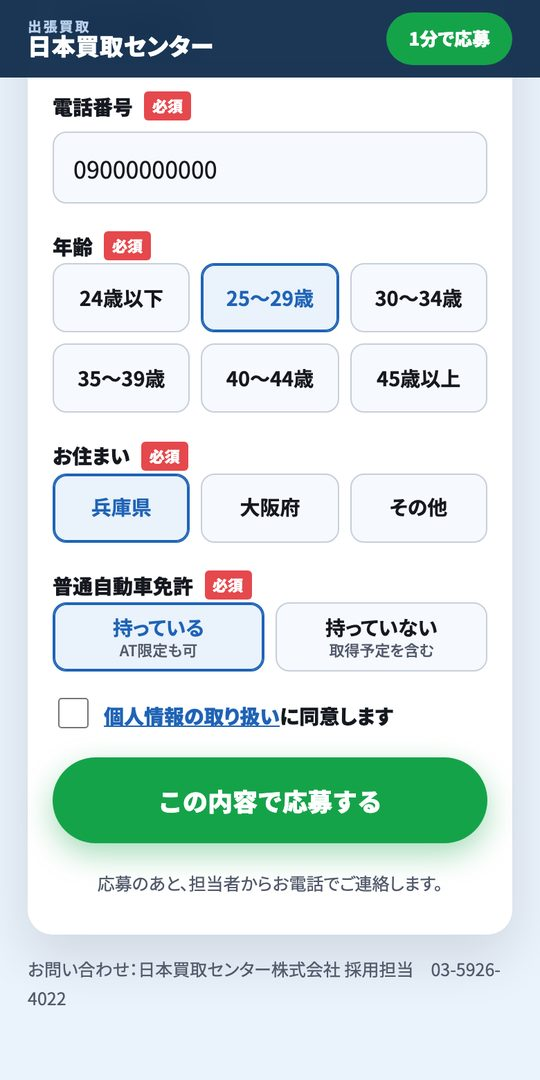
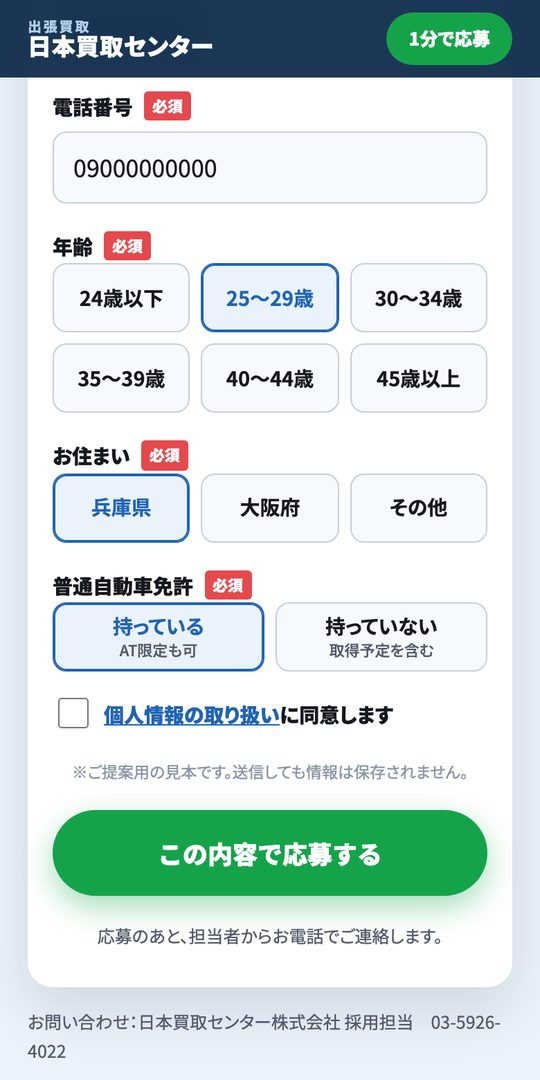
日本買取センター様の提案：給与の書き方を募集要項どおりに直し、想定の数字を目標と慎重ケースに分けた
Codexレビューを反映。月給30万〜100万円は固定給の幅でインセンティブは別、採用単価の幅の計算を修正、見本フォームはJSが動くまで送信不可に、電話番号チェックを強化。

diff --git a/nkc-saiyo-board-c6d333/index.html b/nkc-saiyo-board-c6d333/index.html
@@ -254,10 +254,10 @@ a.url{text-decoration:none;color:var(--blue)}
     <h1>説明会を使わずに「ふつうの求人広告」で募集した場合のイメージ</h1>
     <p class="lead">前回は「説明会の日時」に合わせて集める形でした。ふつうの求人広告は<b>いつでも応募できるので、配信を止めずに続けられ、続けるほど応募1件あたりの費用が下がりやすい</b>のが特長です。買取・反響営業で長く広告を出している他社8社を調べ、その勝ちパターンをもとにバナー3案とLPを作りました。</p>
     <div class="kpis">
-      <div class="kpi"><span>想定の応募単価（CPA）</span><b class="num">¥6,000〜1万</b><small>応募フォーム1件あたり（推定）</small></div>
+      <div class="kpi"><span>応募単価（CPA）の目標</span><b class="num">¥6,000〜1万</b><small>応募1件あたり。慎重に見ると ¥1.2〜1.8万</small></div>
       <div class="kpi"><span>想定の面接単価</span><b class="num">¥1.2〜2.5万</b><small>応募の4〜5割が面接に来る想定</small></div>
-      <div class="kpi"><span>想定の採用単価</span><b class="num">約¥9万</b><small>面接の約2割が採用の想定（幅 約5〜17万円）</small></div>
-      <div class="kpi dark"><span>おすすめの始め方</span><b>月30万円×2か月</b><small>月に応募 約30〜50件・採用 約3人の想定</small></div>
+      <div class="kpi"><span>想定の採用単価</span><b class="num">約¥9万</b><small>入社1人あたりの広告費。面接の約2割が入社の想定（幅 約6〜13万円）</small></div>
+      <div class="kpi dark"><span>おすすめの始め方</span><b>月30万円×2か月</b><small>月に応募 約30〜50件・入社 約3人の想定（目標の場合）</small></div>
     </div>
     <div class="status">
       <div class="st ok"><span class="ic"><svg viewBox="0 0 24 24"><path d="M5 12.5l4.5 4.5L19 7"/></svg></span><div><b>他社の求人広告 8社</b><small>バナー・LP・給与・続き方・想定CPA（01）</small></div></div>
@@ -273,7 +273,7 @@ a.url{text-decoration:none;color:var(--blue)}
   <p class="flabel"><b>01</b>　他社の求人広告（説明会ではなく、ふつうに募集しているもの）</p>
   <div class="panel">
     <div class="flowhead"><h2>買取・反響営業で広告を出している8社</h2><span class="hint">画像はタップで大きく開きます</span></div>
-    <p class="hint" style="margin:4px 0 0">Instagram・Facebookに出ている求人広告を広告調査ツールで集めました（10/25時点）。LPは11/24にスマホで撮影。<b>本数が多く・長く続いている広告ほど、応募が取れている（＝勝っている）</b>と考えられます。</p>
+    <p class="hint" style="margin:4px 0 0">Instagram・Facebookに出ている求人広告を広告調査ツールで集めました（10/25時点）。LPは11/24にスマホで撮影。<b>本数が多く・長く続いている広告ほど、応募が取れている（＝勝っている）可能性が高い</b>と考えられます。</p>
     <div class="comps">
 
       <div class="comp"><div class="ch"><span class="n">1</span><div><h3>アールイコール</h3><small>出張買取スタッフ</small></div><span class="pill ok">1年4か月 続いている</span></div>
@@ -351,7 +351,7 @@ a.url{text-decoration:none;color:var(--blue)}
 
     <div class="callout"><span class="ic"><svg viewBox="0 0 24 24"><path d="M9 18h6M10 21h4M12 3a6 6 0 0 0-3.5 10.9c.6.5 1 1.2 1 2.1h5c0-.9.4-1.6 1-2.1A6 6 0 0 0 12 3z"/></svg></span>
       <div><b>長く続いている広告の共通点（3つ）</b><span>① <b>給与の数字を一番大きく</b>（平均月収・1年目の年収など“実例”の数字）　② <b>「テレアポ・飛び込みなし」を言い切る</b>（完全反響）　③ <b>応募の手間を減らす</b>（DMでOK・短いフォーム・書類選考なし）</span></div></div>
-    <p class="hint" style="margin-top:10px">※想定CPA（応募1件あたりの広告費）は各社が公表していないため、広告の続き方・応募の入口の手間・関西の営業職のMeta求人広告の相場から出した推定です。</p>
+    <p class="hint" style="margin-top:10px">※想定CPA（応募1件あたりの広告費）は各社とも非公開です。広告の続き方・応募の入口の手間などから出した<b>参考の推定</b>で、実際の数字ではありません。</p>
   </div>
 </section>
 
@@ -365,9 +365,9 @@ a.url{text-decoration:none;color:var(--blue)}
       <thead><tr><th></th><th>説明会型（前回）</th><th class="hl">ふつうの求人広告（ご提案）</th></tr></thead>
       <tbody>
         <tr><th>応募できる人</th><td>その日時に来られる人だけ</td><td class="hl">いつでも応募できる</td></tr>
-        <tr><th>配信の期間</th><td>説明会までの数日〜数週間（Metaの学習が終わる前に終了）</td><td class="hl">止めずに続けられる（学習が進むほど安くなる）</td></tr>
+        <tr><th>配信の期間</th><td>説明会までの数日〜数週間（Metaの学習が終わる前に終了）</td><td class="hl">止めずに続けられる（学習が進むと単価が安定しやすい）</td></tr>
         <tr><th>応募の重さ</th><td>半日の予定を空けてもらう</td><td class="hl">1分の応募 → 電話 → 面接</td></tr>
-        <tr><th>1件あたり</th><td>予約1件 約5.7万円<br><span class="hint">配信約4日半・予約2件</span></td><td class="hl"><b>応募1件 約6,000〜1万円</b><br><span class="hint">想定（最初の2〜3週は高め）</span></td></tr>
+        <tr><th>1件あたり</th><td>予約1件 約5.7万円<br><span class="hint">配信約4日半・予約2件</span></td><td class="hl"><b>応募1件 約6,000〜1万円</b><br><span class="hint">目標（最初の2〜3週は高めに出やすい）</span></td></tr>
       </tbody>
     </table></div>
 
@@ -387,19 +387,19 @@ a.url{text-decoration:none;color:var(--blue)}
 
     <h2 style="margin-top:28px">予算ごとの見込み（1か月あたり）</h2>
     <div class="funnel">
-      <div class="fs"><small>応募</small><b class="num">¥6,000〜1万</b><span>1件あたり</span></div><span class="farr">→</span>
+      <div class="fs"><small>応募（目標）</small><b class="num">¥6,000〜1万</b><span>1件あたり</span></div><span class="farr">→</span>
       <div class="fs"><small>面接（応募の4〜5割）</small><b class="num">¥1.2〜2.5万</b><span>1件あたり</span></div><span class="farr">→</span>
-      <div class="fs dk"><small>採用（面接の約2割）</small><b class="num">約¥9万</b><span>1人あたり（幅 約5〜17万円）</span></div>
+      <div class="fs dk"><small>入社（面接の約2割）</small><b class="num">約¥9万</b><span>1人あたり（幅 約6〜13万円）</span></div>
     </div>
     <div class="cmpwrap"><table class="cmp plan">
-      <thead><tr><th>月の広告費</th><th>応募</th><th>面接</th><th>採用</th></tr></thead>
+      <thead><tr><th>月の広告費</th><th>応募</th><th>面接</th><th>入社</th></tr></thead>
       <tbody>
         <tr><th>15万円</th><td>約15〜25件</td><td>約8件</td><td>約1〜2人</td></tr>
         <tr class="rec"><th>30万円 <span class="pill ok">おすすめ</span></th><td><b>約30〜50件</b></td><td><b>約17件</b></td><td><b>約3人</b></td></tr>
         <tr><th>50万円</th><td>約50〜80件</td><td>約28件</td><td>約5〜6人</td></tr>
       </tbody>
     </table></div>
-    <p class="hint" style="margin-top:8px">※面接・採用は中央の値（応募単価8,000円・面接率45%・採用率20%）で計算。最初の2〜3週間はMetaの学習期間のため単価は高めに出て、2か月目から安定してきます。<br>※参考：人材紹介で採用すると、1人あたり想定年収の30〜35%＝<b>約110〜130万円</b>（年収360万円の場合）。</p>
+    <p class="hint" style="margin-top:8px">※面接・入社は中央の値（応募単価8,000円・面接率45%・入社率20%）で計算。面接率・入社率は仮の値で、実際の数字で毎月見直します。<br>※<b>慎重に見た場合</b>（応募単価1.2〜1.8万円）：月30万円で応募 約17〜25件・入社 約1〜2人。最初の2〜3週間はMetaの学習期間のため、単価は高めに出やすいです。<br>※参考：人材紹介で採用すると、1人あたり想定年収の30〜35%＝<b>約110〜130万円</b>（年収360万円の場合）。</p>
   </div>
 </section>
 
@@ -447,7 +447,8 @@ a.url{text-decoration:none;color:var(--blue)}
       <div class="ask"><span class="n">3</span><div><h3>面接の形</h3><p>LPでは「尼崎の事務所 または オンライン」としています。今の募集要項は1次・2次面接なので、回数と、オンラインで行えるかを教えてください。</p></div></div>
       <div class="ask"><span class="n">4</span><div><h3>予算と期間、採用したい人数</h3><p>おすすめは<b>月30万円×2か月</b>（最初の2〜3週は学習期間）。まず月15万円から始めることもできます。</p>
         <p class="q">何人くらい・いつまでに採用したいか、年齢の目安があれば教えてください。</p></div></div>
-      <div class="ask"><span class="n">5</span><div><h3>「月給100万円・想定年収1,200万円」を広告に出してよいか</h3><p>求人広告は実際の条件と違う表示ができません。上限の金額で働いている方がいれば、そのまま出せます。いない場合は「月給30万円〜＋インセンティブ」の表示に絞ります。</p></div></div>
+      <div class="ask"><span class="n">5</span><div><h3>給与の表示と、募集要項に足したい項目</h3><p>求人広告は実際の条件と違う表示ができません。「月給30万〜100万円」の幅がどう決まるか（経験・能力など）と、上限に近い方が実際にいるかを確認させてください。いない場合は「月給30万円〜＋インセンティブ」の表示に絞ります。</p>
+        <p class="q">あわせて、雇用形態（正社員など）・試用期間中の条件・仕事内容や勤務地の変更の範囲・受動喫煙対策を教えてください（求人広告で書くことが求められている項目です）。</p></div></div>
     </div>
   </div>
 </section>

diff --git a/nkc-saiyo-lp-132bf4/index.html b/nkc-saiyo-lp-132bf4/index.html
@@ -83,7 +83,7 @@ p{margin:0}
 .stack{display:grid;grid-template-columns:1fr auto 1fr;align-items:stretch;gap:8px}
 .blk{border-radius:14px;padding:14px 12px;display:grid;gap:2px;align-content:center;text-align:center}
 .blk small{font-size:11.5px;font-weight:900;letter-spacing:.04em}
-.blk b{font-family:var(--num);font-weight:400;font-size:34px;line-height:1.05}
+.blk b{font-family:var(--num);font-weight:400;font-size:30px;line-height:1.05;white-space:nowrap}
 .blk b span{font-family:var(--sans);font-size:13px;font-weight:900;margin-left:1px}
 .blk em{font-style:normal;font-size:11.5px;color:var(--ink2);line-height:1.45}
 .blk.base{background:var(--blue-lt)}.blk.base b{color:var(--blue)}
@@ -258,11 +258,11 @@ dl.req-list dd small{display:block;color:var(--ink2);font-size:12.5px;line-heigh
       <p class="lead">固定の月給に、毎月のインセンティブが上乗せされます。未経験のうちは固定給で安心して覚え、慣れてきたら成果がそのまま収入に返ってきます。</p>
       <div class="income">
         <div class="stack">
-          <div class="blk base"><small>固定の月給</small><b>30<span>万円〜</span></b><em>未経験スタートでも<br>この金額から</em></div>
+          <div class="blk base"><small>月給（固定）</small><b>30<span>万〜</span>100<span>万円</span></b><em>経験・能力により決定<br>未経験でも30万円から</em></div>
           <span class="plus" aria-hidden="true">＋</span>
           <div class="blk inc"><small>インセンティブ</small><b>15<span>%まで</span></b><em>売上利益の最大15%を<br>毎月の月給に加算</em></div>
         </div>
-        <div class="eq"><small>月給</small><b>30<span>万円〜</span>100<span>万円</span></b><i>想定年収 360万円〜1,200万円</i></div>
+        <div class="eq"><small>想定年収</small><b>360<span>万〜</span>1,200<span>万円</span></b></div>
         <p class="note">※月給は固定残業代（40時間分・71,500円〜）を含みます。40時間を超える残業代は別途支給。試用期間3ヶ月。</p>
       </div>
     </div>
@@ -311,7 +311,7 @@ dl.req-list dd small{display:block;color:var(--ink2);font-size:12.5px;line-heigh
       <span class="eyebrow">未経験のあなたへ</span>
       <h2 class="h2">営業がはじめてでも、<br><mark>3つの不安</mark>はいりません。</h2>
       <div class="qa">
-        <div class="qa-item"><p class="q">ノルマや押し売りがキツそう…</p><div class="a"><h3>アポ取りは<em>社内チーム</em>の仕事。押し売りも一切なし。</h3><p>呼ばれたご自宅で、品物を一つずつ丁寧に査定することに集中できます。</p></div></div>
+        <div class="qa-item"><p class="q">押し売りやテレアポがキツそう…</p><div class="a"><h3>アポ取りは<em>社内チーム</em>の仕事。押し売りも一切なし。</h3><p>呼ばれたご自宅で、品物を一つずつ丁寧に査定することに集中できます。</p></div></div>
         <div class="qa-item"><p class="q">査定なんて、やったことがない…</p><div class="a"><h3>約2週間の研修と、<em>先輩への同行</em>で覚えられる。</h3><p>座学のあと先輩に同行して流れを学びます。他業種・営業未経験の方も活躍中です。</p></div></div>
         <div class="qa-item"><p class="q">応募のハードルが高そう…</p><div class="a"><h3>応募は<em>スマホで1分</em>。まずは話を聞くだけでも。</h3><p>入力は5項目だけ。担当者からお電話し、仕事内容や給与のことを詳しくお伝えします。</p></div></div>
       </div>
@@ -352,7 +352,7 @@ dl.req-list dd small{display:block;color:var(--ink2);font-size:12.5px;line-heigh
         <h2 class="h2">1分で応募する</h2>
         <p class="lead">入力は5項目だけです。応募のあと、担当者からお電話でご連絡します。</p>
       </div>
-      <form class="form-card" id="entry" novalidate>
+      <form class="form-card" id="entry" method="post" action="#" novalidate>
         <div class="prog" aria-hidden="true"><span id="prog-t">あと5項目</span><span class="bar"><i id="prog-b"></i></span></div>
         <div class="field">
           <label for="f-name">お名前<span class="req">必須</span></label>
@@ -397,7 +397,8 @@ dl.req-list dd small{display:block;color:var(--ink2);font-size:12.5px;line-heigh
           <label class="agree" for="f-agree"><input type="checkbox" id="f-agree" name="agree"><span><a href="https://nihon-kaitoricenter.com/privacy-policy" target="_blank" rel="noopener">個人情報の取り扱い</a>に同意します</span></label>
           <p class="err" data-for="agree"></p>
         </div>
-        <button class="btn submit" type="submit" id="f-submit">この内容で応募する</button>
+        <p class="btn-sub" style="font-size:11.5px;color:#8a94a6">※ご提案用の見本です。送信しても情報は保存されません。</p>
+        <button class="btn submit" type="submit" id="f-submit" disabled>この内容で応募する</button>
         <p class="form-msg" id="form-msg" role="alert"></p>
         <p class="btn-sub">応募のあと、担当者からお電話でご連絡します。</p>
       </form>
@@ -451,6 +452,8 @@ dl.req-list dd small{display:block;color:var(--ink2);font-size:12.5px;line-heigh
     new IntersectionObserver(function (e) { formVisible = e[0].isIntersecting; upd(); }, { rootMargin: '0px 0px -20% 0px' }).observe(formSec);
   }
   var f = document.getElementById('entry'), msg = document.getElementById('form-msg');
+  document.getElementById('f-submit').disabled = false;
+  function telOk(t) { return /^0[5789]0\d{8}$/.test(t) || (/^0[1-9]\d{8}$/.test(t) && !/^0[5789]0/.test(t)); }
   function toHalf(s) { return s.replace(/[０-９]/g, function (c) { return String.fromCharCode(c.charCodeAt(0) - 0xfee0); }); }
   function data() {
     var fd = new FormData(f);
@@ -458,7 +461,7 @@ dl.req-list dd small{display:block;color:var(--ink2);font-size:12.5px;line-heigh
   }
   function progress() {
     var d = data(), n = 0;
-    if (d.name) n++; if (/^0\d{9,10}$/.test(d.tel)) n++; if (d.age) n++; if (d.area) n++; if (d.license) n++;
+    if (d.name) n++; if (telOk(d.tel)) n++; if (d.age) n++; if (d.area) n++; if (d.license) n++;
     document.getElementById('prog-b').style.width = (n / 5 * 100) + '%';
     document.getElementById('prog-t').textContent = n === 5 ? '入力完了' : 'あと' + (5 - n) + '項目';
   }
@@ -467,7 +470,7 @@ dl.req-list dd small{display:block;color:var(--ink2);font-size:12.5px;line-heigh
     ev.preventDefault();
     var d = data(), e = {};
     if (!d.name) e.name = 'お名前を入力してください';
-    if (!/^0\d{9,10}$/.test(d.tel)) e.tel = '電話番号を正しく入力してください';
+    if (!telOk(d.tel)) e.tel = '電話番号を正しく入力してください';
     if (!d.age) e.age = '年齢を選んでください';
     if (!d.area) e.area = 'お住まいを選んでください';
     if (!d.license) e.license = '普通自動車免許について選んでください';

diff --git a/nkc-saiyo-lp-132bf4/thanks.html b/nkc-saiyo-lp-132bf4/thanks.html
@@ -35,6 +35,7 @@ h1{font-size:23px;margin:0;font-weight:900;line-height:1.4}
 <body>
 <header class="hd"><div><small>出張買取</small><b>日本買取センター</b></div></header>
 <main>
+  <p class="demo" style="margin:0 0 12px">※ご提案用の見本です。情報は保存・送信されていません。</p>
   <div class="card">
     <span class="ok"><svg viewBox="0 0 24 24"><path d="M5 12.5l4.5 4.5L19 7"/></svg></span>
     <h1>ご応募ありがとうございます</h1>
